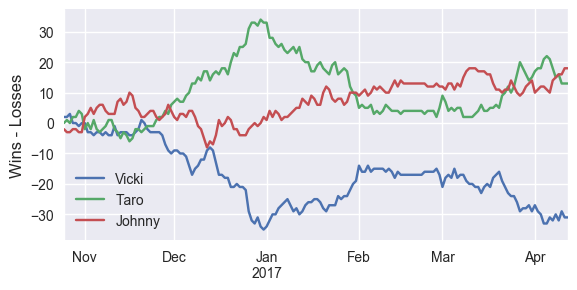
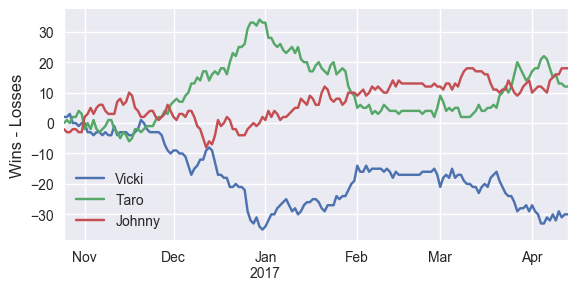
update 4/13

diff --git a/index.html b/index.html
@@ -35,7 +35,7 @@
 <a id="the-bet-is-on" class="anchor" href="#the-bet-is-on" aria-hidden="true"><span aria-hidden="true" class="octicon octicon-link"></span></a>The bet is on.</h1>
 
 <h1>
-<a id="current-winner-of-2016-17-season" class="anchor" href="#current-winner-of-2016-17-season" aria-hidden="true"><span aria-hidden="true" class="octicon octicon-link"></span></a>Current winner of 2016-17 Season (as of 4/12/2017):</h1>
+<a id="current-winner-of-2016-17-season" class="anchor" href="#current-winner-of-2016-17-season" aria-hidden="true"><span aria-hidden="true" class="octicon octicon-link"></span></a>Current winner of 2016-17 Season (as of 4/13/2017):</h1>
 
 <h2>
 <a id="none" class="anchor" href="#none" aria-hidden="true"><span aria-hidden="true" class="octicon octicon-link"></span></a><strong>Johnny</strong>
@@ -44,23 +44,23 @@
 <h2>
 <a id="johnny" class="anchor" href="Johnny.html" aria-hidden="true"><span aria-hidden="true" class="octicon octicon-link"></span>Johnny</a></h2>
 
-<p>Wins: 414<br>
-Losses: 396<br>
-Remaining wins available: 7</p>
+<p>Wins: 419<br>
+Losses: 401<br>
+Remaining wins available: 0</p>
 
 <h2>
 <a id="taro" class="anchor" href="Taro.html" aria-hidden="true"><span aria-hidden="true" class="octicon octicon-link"></span>Taro</a></h2>
 
-<p>Wins: 412<br>
-Losses: 399<br>
-Remaining wins available: 9</p>
+<p>Wins: 416<br>
+Losses: 404<br>
+Remaining wins available: 0</p>
 
 <h2>
 <a id="vicki" class="anchor" href="Vicki.html" aria-hidden="true"><span aria-hidden="true" class="octicon octicon-link"></span>Vicki</a></h2>
 
-<p>Wins: 390<br>
-Losses: 421<br>
-Remaining wins available: 8</p>
+<p>Wins: 395<br>
+Losses: 425<br>
+Remaining wins available: 0</p>
 
 <img src='pythoncode/win_percent.png' alt='Winning Percentage Over Time'>
 <h1>

diff --git a/Vicki.html b/Vicki.html
@@ -35,9 +35,9 @@
 
 <h2>Vicki</h2>
 
-<p>Wins: 390<br>
-Losses: 421<br>
-Remaining wins available: 8</p>
+<p>Wins: 395<br>
+Losses: 425<br>
+Remaining wins available: 0</p>
 
 <h2> Current teams </h2>
 <table border="1">
@@ -49,51 +49,51 @@ Remaining wins available: 8</p>
 </tr>
 <tr>
 <td>Heat</td>
-<td>40</td>
 <td>41</td>
-<td>1</td>
+<td>41</td>
+<td>0</td>
 </tr>
 <tr>
 <td>Mavericks</td>
-<td>32</td>
+<td>33</td>
 <td>49</td>
-<td>1</td>
+<td>0</td>
 </tr>
 <tr>
 <td>Trail Blazers</td>
 <td>41</td>
-<td>40</td>
-<td>1</td>
+<td>41</td>
+<td>0</td>
 </tr>
 <tr>
 <td>Cavaliers</td>
 <td>51</td>
-<td>30</td>
-<td>1</td>
+<td>31</td>
+<td>0</td>
 </tr>
 <tr>
 <td>Bulls</td>
-<td>40</td>
 <td>41</td>
-<td>1</td>
+<td>41</td>
+<td>0</td>
 </tr>
 <tr>
 <td>76ers</td>
 <td>28</td>
-<td>53</td>
-<td>1</td>
+<td>54</td>
+<td>0</td>
 </tr>
 <tr>
 <td>Grizzlies</td>
 <td>43</td>
-<td>38</td>
-<td>1</td>
+<td>39</td>
+<td>0</td>
 </tr>
 <tr>
 <td>Clippers</td>
-<td>50</td>
+<td>51</td>
 <td>31</td>
-<td>1</td>
+<td>0</td>
 </tr>
 <tr>
 <td>Suns</td>
@@ -103,9 +103,9 @@ Remaining wins available: 8</p>
 </tr>
 <tr>
 <td>Pacers</td>
-<td>41</td>
+<td>42</td>
 <td>40</td>
-<td>1</td>
+<td>0</td>
 </tr>
 </table>
 

diff --git a/Johnny.html b/Johnny.html
@@ -35,9 +35,9 @@
 
 <h2>Johnny</h2>
 
-<p>Wins: 414<br>
-Losses: 396<br>
-Remaining wins available: 7</p>
+<p>Wins: 419<br>
+Losses: 401<br>
+Remaining wins available: 0</p>
 
 <h2> Current teams </h2>
 <table border="1">
@@ -50,62 +50,62 @@ Remaining wins available: 7</p>
 <tr>
 <td>Bucks</td>
 <td>42</td>
-<td>39</td>
-<td>1</td>
+<td>40</td>
+<td>0</td>
 </tr>
 <tr>
 <td>Warriors</td>
-<td>66</td>
+<td>67</td>
 <td>15</td>
-<td>1</td>
+<td>0</td>
 </tr>
 <tr>
 <td>Timberwolves</td>
 <td>31</td>
-<td>50</td>
-<td>1</td>
+<td>51</td>
+<td>0</td>
 </tr>
 <tr>
 <td>Hawks</td>
 <td>43</td>
-<td>38</td>
-<td>1</td>
+<td>39</td>
+<td>0</td>
 </tr>
 <tr>
 <td>Celtics</td>
-<td>52</td>
+<td>53</td>
 <td>29</td>
-<td>1</td>
+<td>0</td>
 </tr>
 <tr>
 <td>Pistons</td>
 <td>37</td>
-<td>44</td>
-<td>1</td>
+<td>45</td>
+<td>0</td>
 </tr>
 <tr>
 <td>Nuggets</td>
-<td>39</td>
+<td>40</td>
 <td>42</td>
-<td>1</td>
+<td>0</td>
 </tr>
 <tr>
 <td>Jazz</td>
-<td>50</td>
+<td>51</td>
 <td>31</td>
-<td>1</td>
+<td>0</td>
 </tr>
 <tr>
 <td>Lakers</td>
 <td>26</td>
-<td>55</td>
-<td>1</td>
+<td>56</td>
+<td>0</td>
 </tr>
 <tr>
 <td>Magic</td>
-<td>28</td>
+<td>29</td>
 <td>53</td>
-<td>1</td>
+<td>0</td>
 </tr>
 </table>
 

diff --git a/Taro.html b/Taro.html
@@ -35,9 +35,9 @@
 
 <h2>Taro</h2>
 
-<p>Wins: 412<br>
-Losses: 399<br>
-Remaining wins available: 9</p>
+<p>Wins: 416<br>
+Losses: 404<br>
+Remaining wins available: 0</p>
 
 <h2> Current teams </h2>
 <table border="1">
@@ -49,33 +49,33 @@ Remaining wins available: 9</p>
 </tr>
 <tr>
 <td>Knicks</td>
-<td>30</td>
+<td>31</td>
 <td>51</td>
-<td>1</td>
+<td>0</td>
 </tr>
 <tr>
 <td>Nets</td>
 <td>20</td>
-<td>61</td>
-<td>1</td>
+<td>62</td>
+<td>0</td>
 </tr>
 <tr>
 <td>Thunder</td>
 <td>47</td>
-<td>34</td>
-<td>1</td>
+<td>35</td>
+<td>0</td>
 </tr>
 <tr>
 <td>Raptors</td>
-<td>50</td>
+<td>51</td>
 <td>31</td>
-<td>1</td>
+<td>0</td>
 </tr>
 <tr>
 <td>Spurs</td>
 <td>61</td>
-<td>20</td>
-<td>1</td>
+<td>21</td>
+<td>0</td>
 </tr>
 <tr>
 <td>Hornets</td>
@@ -85,27 +85,27 @@ Remaining wins available: 9</p>
 </tr>
 <tr>
 <td>Rockets</td>
-<td>54</td>
+<td>55</td>
 <td>27</td>
-<td>1</td>
+<td>0</td>
 </tr>
 <tr>
 <td>Wizards</td>
 <td>49</td>
-<td>32</td>
-<td>1</td>
+<td>33</td>
+<td>0</td>
 </tr>
 <tr>
 <td>Kings</td>
 <td>32</td>
-<td>49</td>
-<td>1</td>
+<td>50</td>
+<td>0</td>
 </tr>
 <tr>
 <td>Pelicans</td>
-<td>33</td>
+<td>34</td>
 <td>48</td>
-<td>1</td>
+<td>0</td>
 </tr>
 </table>
 
